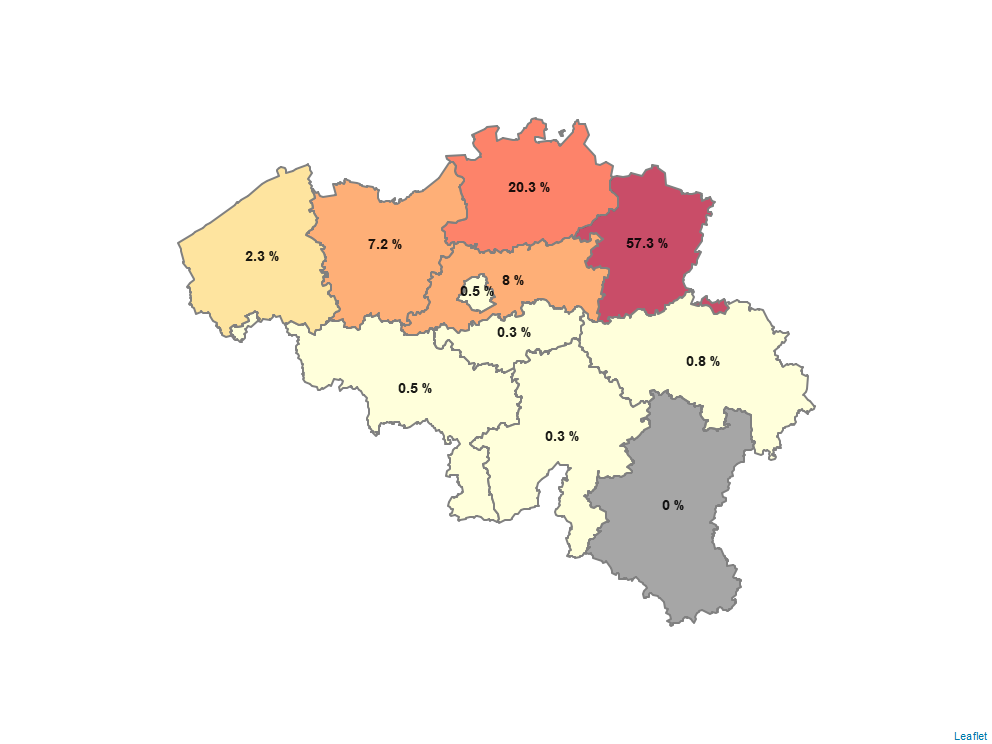
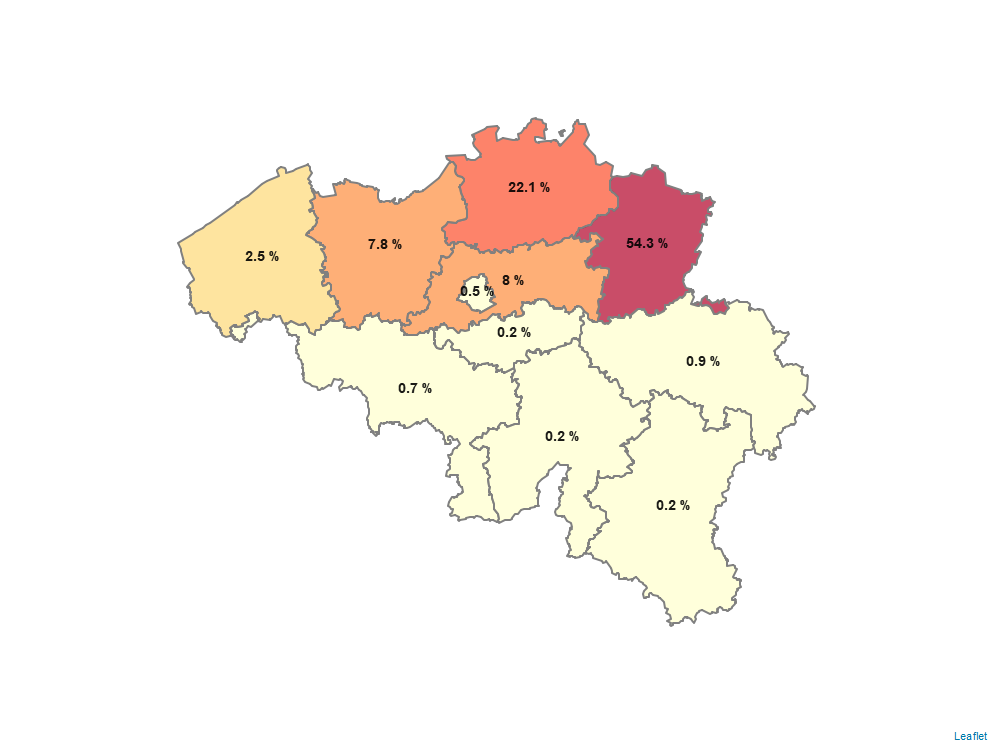
results update 26/04

Changed region(s): [[0.5938, 0.5255, 0.7812, 0.8347]]

diff --git a/public/assets/locales/nl-be/markdowns/results-0.md b/public/assets/locales/nl-be/markdowns/results-0.md
@@ -7,7 +7,7 @@ Op deze pagina vindt u de actuele resultaten van Infectieradar.
 
 ## Achtergrond Informatie
 
-Op 16 april 2021 hadden we 389 deelnemers. 50.4% van de deelnemers is vrouw, en 49.6% is man. Een meerderheid van deelnemers (84.1%) rapporteerden dat ze nog geen Covid-19 hebben gehad. 4.2% van de deelnemers hebben in het verleden positief getest op Covid-19. 11.8% van de deelnemers hebben een sterk vermoeden dat ze Covid-19 hebben gehad.
+Op 26 april 2021 hadden we 435 deelnemers. 50.1% van de deelnemers is vrouw, en 49.9% is man. Een meerderheid van deelnemers (84.1%) rapporteerden dat ze nog geen Covid-19 hebben gehad. 3.9% van de deelnemers hebben in het verleden positief getest op Covid-19. 11.9% van de deelnemers hebben een sterk vermoeden dat ze Covid-19 hebben gehad.
 <br />
 
 ### Leeftijdsverdeling
@@ -25,7 +25,7 @@ Op 16 april 2021 hadden we 389 deelnemers. 50.4% van de deelnemers is vrouw, en 
 
 ## Wekelijkse Symptomen
 
-Op 17 april 2021 hadden we 858 ingevulde wekelijkse symptomen vragenlijsten van 365 deelnemers. In 72,9% van de vragenlijsten werd gerapporteerd dat er *geen symptomen* waren.
+Op 26 april 2021 hadden we 1427 ingevulde wekelijkse symptomen vragenlijsten van 411 deelnemers. In 74,1% van de vragenlijsten werd gerapporteerd dat er *geen symptomen* waren.
 
 ### Gerapporteerde symptomen
 In de figuur hieronder geven we procentueel aan hoe vaak een bepaald symptoom is gerapporteerd in de vragenlijsten waarbij minstens één symptoom werd doorgegeven.

diff --git a/public/assets/locales/de-be/markdowns/results-0.md b/public/assets/locales/de-be/markdowns/results-0.md
@@ -7,7 +7,7 @@ On this page you will be able to see the latest results from the data collected 
 
 ## Background Information
 
-On April 16, 2021 we had 389 participants. 50.4% of the participants are female, and 49.6% male. The majority of the participants (84.1%) reported having no previous Covid-19 episode. 4.2% of the participants had a positive Covid-19 test in the past. 11.8% of the participants think they had a previous Covid-19 episode.
+On April 26, 2021 we had 435 participants. 50.1% of the participants are female, and 49.9% male. The majority of the participants (84.1%) reported having no previous Covid-19 episode. 3.9% of the participants had a positive Covid-19 test in the past. 11.9% of the participants think they had a previous Covid-19 episode.
 <br />
 
 ### Age distribution
@@ -25,7 +25,7 @@ On April 16, 2021 we had 389 participants. 50.4% of the participants are female,
 
 ## Weekly Symptoms
 
-On April 16, 2021 we had 958 completed weekly symptom questionnaires from 365 participants. In 72,9% of the symptom questionnaires it was reported that there were *no symptoms*.
+On April 26, 2021 we had 1427 completed weekly symptom questionnaires from 411 participants. In 74,1% of the symptom questionnaires it was reported that there were *no symptoms*.
 
 ### Reported symptoms
 

diff --git a/public/assets/locales/fr-be/markdowns/results-0.md b/public/assets/locales/fr-be/markdowns/results-0.md
@@ -7,7 +7,7 @@ On this page you will be able to see the latest results from the data collected 
 
 ## Background Information
 
-On April 16, 2021 we had 389 participants. 50.4% of the participants are female, and 49.6% male. The majority of the participants (84.1%) reported having no previous Covid-19 episode. 4.2% of the participants had a positive Covid-19 test in the past. 11.8% of the participants think they had a previous Covid-19 episode.
+On April 26, 2021 we had 435 participants. 50.1% of the participants are female, and 49.9% male. The majority of the participants (84.1%) reported having no previous Covid-19 episode. 3.9% of the participants had a positive Covid-19 test in the past. 11.9% of the participants think they had a previous Covid-19 episode.
 <br />
 
 ### Age distribution
@@ -25,7 +25,7 @@ On April 16, 2021 we had 389 participants. 50.4% of the participants are female,
 
 ## Weekly Symptoms
 
-On April 16, 2021 we had 958 completed weekly symptom questionnaires from 365 participants. In 72,9% of the symptom questionnaires it was reported that there were *no symptoms*.
+On April 26, 2021 we had 1427 completed weekly symptom questionnaires from 411 participants. In 74,1% of the symptom questionnaires it was reported that there were *no symptoms*.
 
 ### Reported symptoms
 

diff --git a/public/assets/locales/en/markdowns/results-0.md b/public/assets/locales/en/markdowns/results-0.md
@@ -7,7 +7,7 @@ On this page you will be able to see the latest results from the data collected 
 
 ## Background Information
 
-On April 7, 2021 we had 389 participants. 50.4% of the participants are female, and 49.6% male. The majority of the participants (84.1%) reported having no previous Covid-19 episode. 4.2% of the participants had a positive Covid-19 test in the past. 11.8% of the participants think they had a previous Covid-19 episode.
+On April 26, 2021 we had 435 participants. 50.1% of the participants are female, and 49.9% male. The majority of the participants (84.1%) reported having no previous Covid-19 episode. 3.9% of the participants had a positive Covid-19 test in the past. 11.9% of the participants think they had a previous Covid-19 episode.
 <br />
 
 ### Age distribution
@@ -25,7 +25,7 @@ On April 7, 2021 we had 389 participants. 50.4% of the participants are female, 
 
 ## Weekly Symptoms
 
-On April 16, 2021 we had 958 completed weekly symptom questionnaires from 365 participants. In 72,9% of the symptom questionnaires it was reported that there were *no symptoms*.
+On April 26, 2021 we had 1427 completed weekly symptom questionnaires from 411 participants. In 74,1% of the symptom questionnaires it was reported that there were *no symptoms*.
 
 ### Reported symptoms
 
